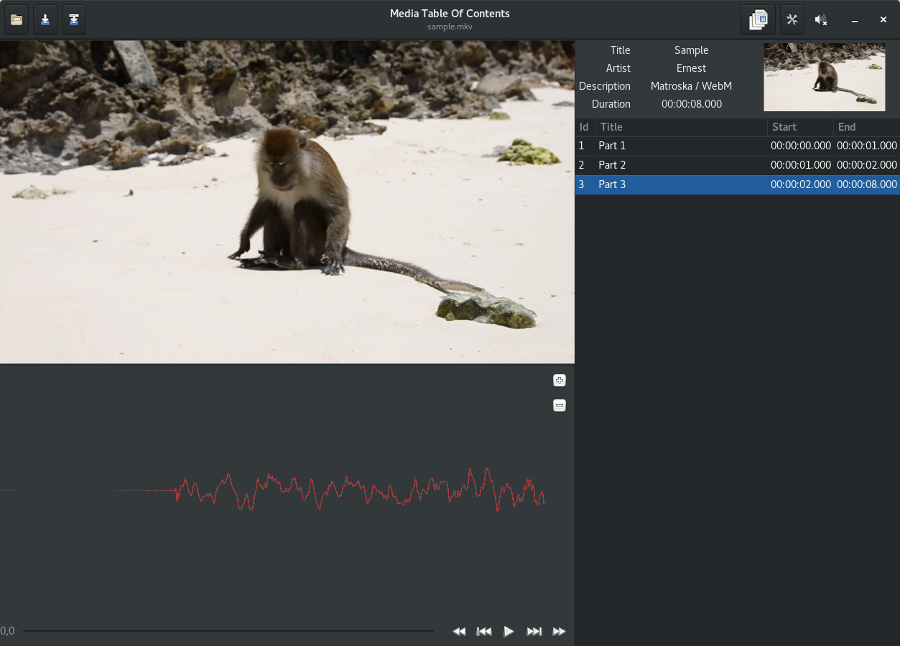
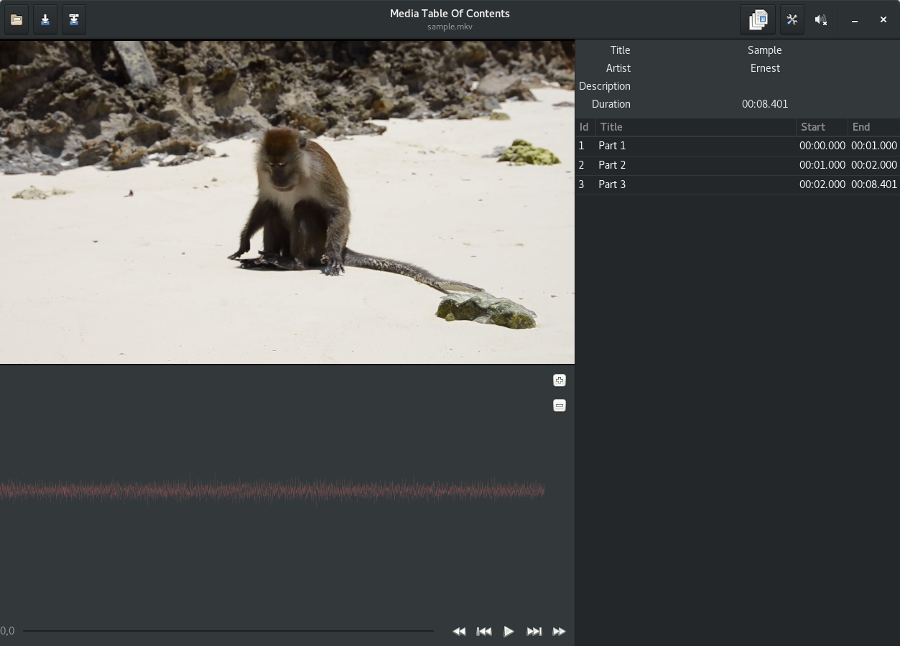
Read toc with gstreamer (#7)

diff --git a/src/media/context.rs b/src/media/context.rs
@@ -12,7 +12,7 @@ use std::path::PathBuf;
 use std::sync::mpsc::{Receiver, Sender};
 use std::sync::{Arc, Mutex};
 
-use super::{AlignedImage, AudioBuffer, AudioCaps, MediaInfo, Timestamp};
+use super::{AlignedImage, AudioBuffer, AudioCaps, Chapter, MediaInfo, Timestamp};
 
 pub enum ContextMessage {
     AsyncDone,
@@ -279,6 +279,56 @@ impl Context {
                         }
                     }
                 },
+                MessageView::Toc(msg_toc) => {
+                    if !init_done {
+                        let (toc, _) = msg_toc.get_toc();
+                        if toc.get_scope() == TocScope::Global {
+                            let info = &mut info_arc_mtx.lock()
+                                .expect("Failed to lock media info while reading toc data");
+                            if info.chapters.is_empty() {
+                                for entry in toc.get_entries() {
+                                    if entry.get_entry_type() == TocEntryType::Edition {
+                                        for sub_entry in entry.get_sub_entries() {
+                                            if sub_entry.get_entry_type() == TocEntryType::Chapter {
+                                                if let Some((start, stop)) = sub_entry.get_start_stop_times() {
+                                                    let mut title = String::new();
+                                                    if let Some(tags) = sub_entry.get_tags() {
+                                                        if let Some(tag) = tags.get::<Title>() {
+                                                            title = tag.get().unwrap().to_owned();
+                                                        };
+                                                    };
+                                                    info.chapters.push(Chapter::new(
+                                                        sub_entry.get_uid(),
+                                                        &title,
+                                                        Timestamp::from_signed_nano(start),
+                                                        Timestamp::from_signed_nano(stop)
+                                                    ));
+                                                }
+                                            }
+                                            else {
+                                                println!("Warning: Skipping toc sub entry with entry type: {:?}",
+                                                    sub_entry.get_entry_type()
+                                                );
+                                            }
+                                        }
+                                    }
+                                    else {
+                                        println!("Warning: Skipping toc entry with entry type: {:?}",
+                                            entry.get_entry_type()
+                                        );
+                                    }
+                                }
+                            }
+                            // else chapters already retrieved
+                            // TODO: check if there are medias with some sort of
+                            // incremental tocs (not likely for files)
+                            // or maybe the updated flag (_ above) should be used
+                        }
+                        else {
+                            println!("Warning: Skipping toc with scope: {:?}", toc.get_scope());
+                        }
+                    }
+                }
                 _ => (),
             };
 

diff --git a/src/media/chapter.rs b/src/media/chapter.rs
@@ -5,33 +5,24 @@ use std::clone::Clone;
 use std::collections::HashMap;
 
 pub struct Chapter {
-    pub id: i32,
+    pub id: String,
     pub start: Timestamp,
     pub end: Timestamp,
     pub metadata: HashMap<String, String>,
 }
 
 impl Chapter {
-    pub fn new() -> Self {
-        Chapter{
-            id: 0,
-            start: Timestamp::new(),
-            end: Timestamp::new(),
+    pub fn new(id: &str, title: &str, start: Timestamp, end: Timestamp) -> Self {
+        let mut this = Chapter{
+            id: id.to_owned(),
+            start: start,
+            end: end,
             metadata: HashMap::new(),
-        }
-    }
+        };
 
-    pub fn set_id(&mut self, id: i32) {
-        self.id = id;
-    }
+        this.metadata.insert("title".to_owned(), title.to_string());
 
-    pub fn set_start(&mut self, sec: i64, time_factor: f64) {
-        self.start = Timestamp::from_sec_time_factor(sec, time_factor);
-    }
-
-
-    pub fn set_end(&mut self, sec: i64, time_factor: f64) {
-        self.end = Timestamp::from_sec_time_factor(sec, time_factor);
+        this
     }
 
     pub fn title(&self) -> &str {
@@ -45,7 +36,7 @@ impl Chapter {
 impl Clone for Chapter {
     fn clone(&self) -> Self {
         Chapter {
-            id: self.id,
+            id: self.id.clone(),
             start: self.start,
             end: self.end,
             metadata: self.metadata.clone(),

diff --git a/README.md b/README.md
@@ -18,13 +18,13 @@ This branch relies on the following technologies:
 [Rust binding](https://github.com/sdroege/gstreamer-rs)).
 
 ## Status
-At the moment, Media-TOC can:
+At the moment, **Media-TOC** can:
 - Open a media file (audio, video - and image but that doesn't make much sense).
 - Display the first video frame
 - Display the cover image if available.
 - Display metadata from the media.
 - Display the first buffers' wave form.
-- Display chapters' data (ffmpeg version only ATM).
+- Display chapters' data.
 
 ## <a name='ui'></a>Screenshot
 ![Media-TOC UI](assets/media-toc.png)
